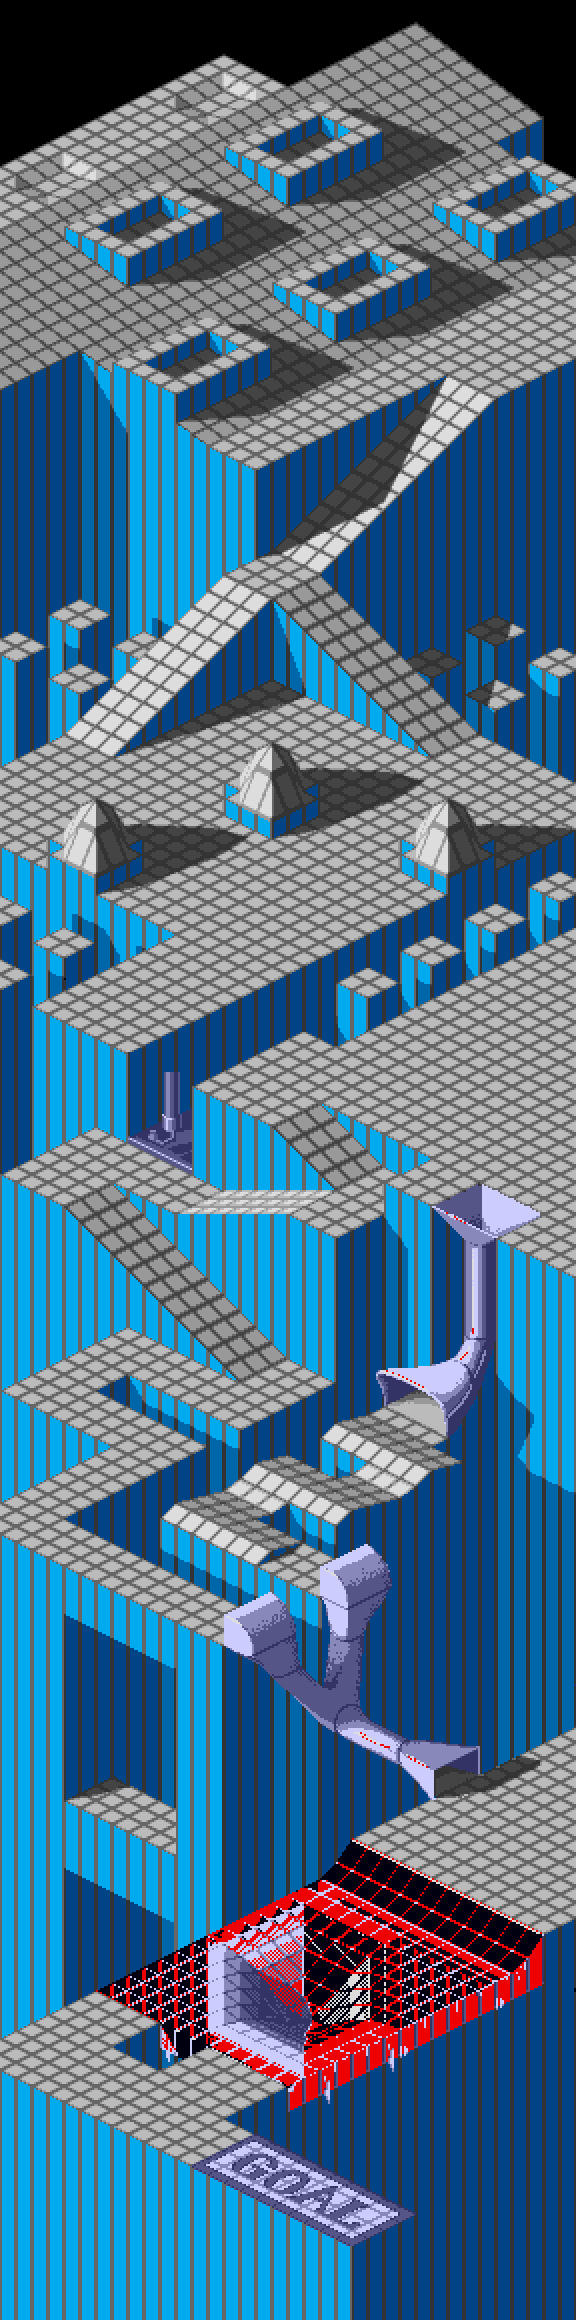
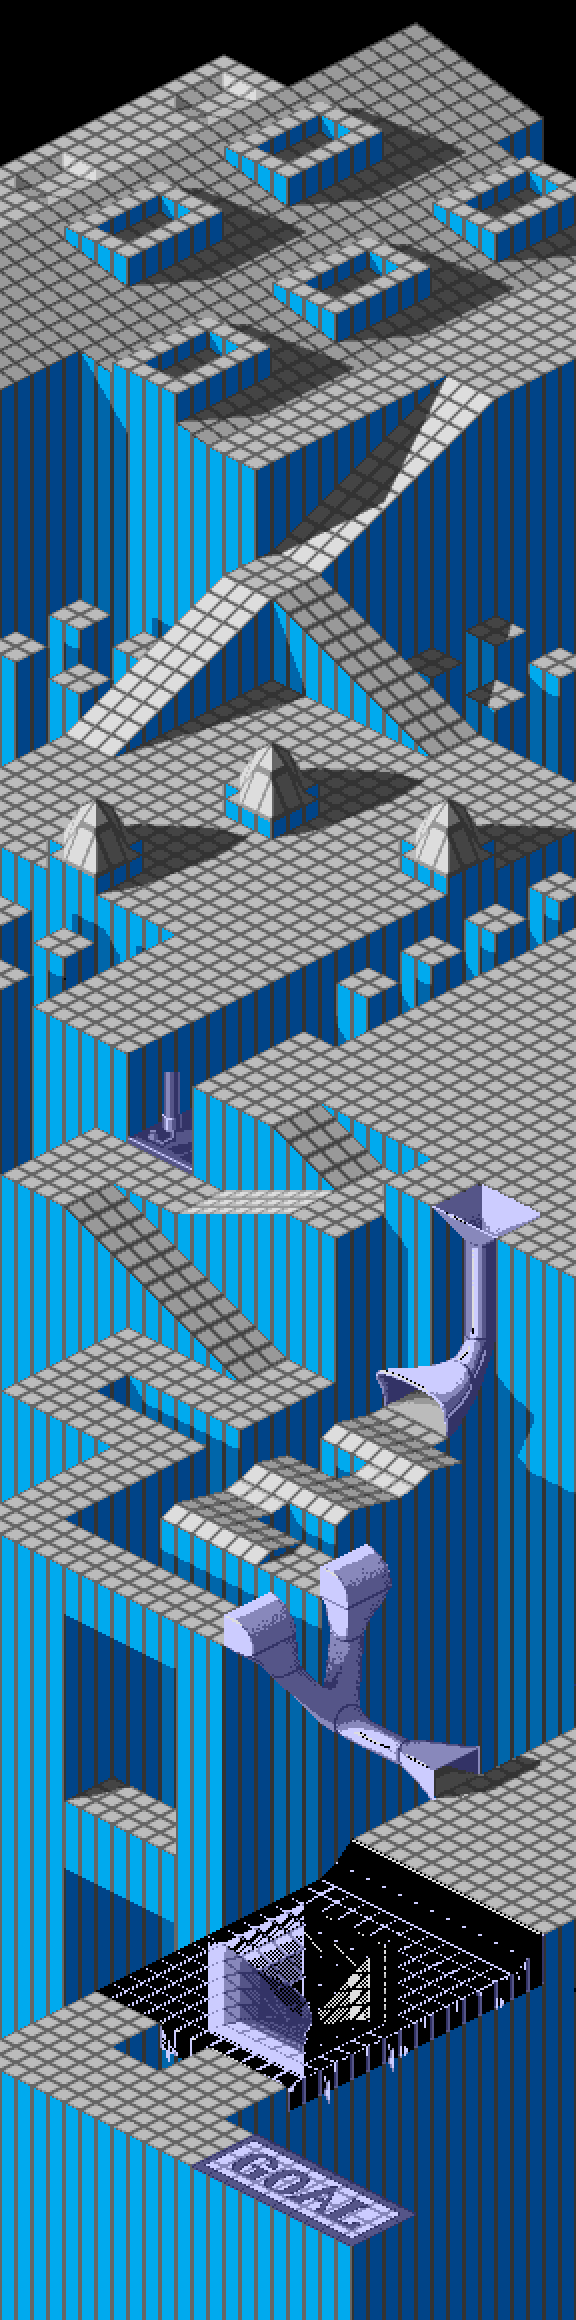
Fix palette source (read unpacked buffer 0x16, not raw file 0x17)
The beginner ice trap rendering red was a palette-source bug: mlbPalette read the
16 colours from the raw file at 0x17, which only works because the palette is a
PackBits literal run there -- and for beginner the file bytes hold a bogus $EE00
(renders red) where the properly unpacked buffer (+0x16) holds $0000. Read from
the unpacked buffer instead; all other courses are unchanged (their file-0x17 and
buffer-0x16 palettes match).

That removes the bogus red. The remaining detail -- the ice should be cyan -- is
an engine colour-cycling effect on indices 14-15 (beginner zeroes them in the
static palette; the cycling is driven by the display task the main loop signals,
$1F392 -> a separate task, not a static colour table), so it's out of reach of a
static palette extraction. Documented in Part IV §3.

Changed region(s): [[0.375, 0.8069, 0.9375, 0.931], [0.2188, 0.8379, 0.375, 0.9]]

diff --git a/Marble Madness (Amiga)/extract/cmd/sprites/main.go b/Marble Madness (Amiga)/extract/cmd/sprites/main.go
@@ -60,14 +60,18 @@ var greys = color.Palette{
 var pal = greys
 
 // mlbPalette reads a course's 16-colour playfield palette from its .mlb level
-// module: 16 big-endian $0RGB words at offset 0x17 (Marble_Madness.md Part IV §3).
+// module. The palette is 16 big-endian $0RGB words at offset 0x16 of the
+// whole-file-unpacked buffer (Marble_Madness.md Part IV §3). Reading the raw file
+// at 0x17 instead happens to work for most courses but is a PackBits artifact —
+// for beginner it yields a bogus $EE00 where the buffer holds $0000.
 func mlbPalette(d []byte) color.Palette {
+	buf := unpackByteRun1(d)
 	p := make(color.Palette, 16)
 	for i := 0; i < 16; i++ {
-		o := 0x17 + 2*i
+		o := 0x16 + 2*i
 		w := uint16(0)
-		if o+1 < len(d) {
-			w = uint16(d[o])<<8 | uint16(d[o+1])
+		if o+1 < len(buf) {
+			w = uint16(buf[o])<<8 | uint16(buf[o+1])
 		}
 		n4 := func(x uint16) uint8 { return uint8(x) * 17 } // 4-bit -> 8-bit
 		p[i] = color.RGBA{n4((w >> 8) & 0xF), n4((w >> 4) & 0xF), n4(w & 0xF), 0xFF}

diff --git a/Marble Madness (Amiga)/Marble_Madness.md b/Marble Madness (Amiga)/Marble_Madness.md
@@ -917,17 +917,29 @@ the decode visually: the course `.ilb` banks resolve into the recognisable
 program.** The engine sets colours with `graphics.library SetRGB4` (`$248FC`, via
 the ViewPorts at `$1FA82`/`$21170`), never `LoadRGB4`, and the `.dat` itself holds
 no colour table — which is why a search of the decrypted program comes up empty.
-The source is each course's **`.mlb`**, at a fixed **offset `0x17`**: sixteen
-big-endian `$0RGB` words, the playfield palette (colours 0–15). This was confirmed
-two ways: the six `.mlb` files carry six distinct palettes there, and reading the
-live OCS colour registers (`$DFF180`) on the training course under FS-UAE returned
-**`000 333 444 666 999 BBB DDD 822 C60 CC0 622 A22 D33 F88 …`** — byte-for-byte the
-words at `practy.mlb+0x17`. The first seven entries are a shared grey ramp (the
-isometric scenery shading); 7–15 are the course's own object/accent colours
-(practy red-orange, beginr blue, interm green, aerial tan, silly yellow, ultima
-red). [`extract/cmd/sprites`](extract/cmd/sprites) reads each course palette from
-the matching `.mlb` and renders every bank with it into [`rendered/`](rendered)
-(`<bank>.png`).
+The source is each course's **`.mlb`**: sixteen big-endian `$0RGB` words, the
+playfield palette (colours 0–15), at **offset `0x16` of the whole-file-unpacked
+buffer** (the `.mlb` decode below). They also appear raw at file offset `0x17` as
+a PackBits literal run — which is a usable shortcut for most courses but a trap for
+beginner, whose file bytes there hold a bogus `$EE00` while the real unpacked value
+is `$0000`; reading from the unpacked buffer is the correct source. This was
+confirmed two ways: the six `.mlb` files carry six distinct palettes, and reading
+the live OCS colour registers (`$DFF180`) on the training course under FS-UAE
+returned **`000 333 444 666 999 BBB DDD 822 C60 CC0 622 A22 D33 F88 …`** —
+byte-for-byte the words in `practy.mlb`. The first seven entries are a shared grey
+ramp (the isometric scenery shading); 7–15 are the course's own object/accent
+colours (practy red-orange, beginr blue, interm green, aerial tan, silly yellow,
+ultima red). [`extract/cmd/sprites`](extract/cmd/sprites) reads each course palette
+from the matching `.mlb` and renders every bank with it into
+[`rendered/`](rendered).
+
+**Two palette entries are engine-animated, not static.** Colours 14–15 are a
+small **colour-cycling effect range** the engine drives at runtime (the animated
+hazard/ice pools) — the static `.mlb` palette only holds a base/placeholder there
+(beginner zeroes them, so its ice trap reads black in a static render rather than
+the cycling cyan seen in-game). The cycling is generated by the display task the
+main loop signals (`$1F392` → a separate task), not from any static colour table
+in the `.dat`, so it is out of reach of a static palette extraction.
 
 **The bit depth differs by file kind.** The `.ilb`/`.vlb` **sprite banks are 2
 bitplanes** (4 colours): the loader's compositor `$8026` builds 132-byte cells =